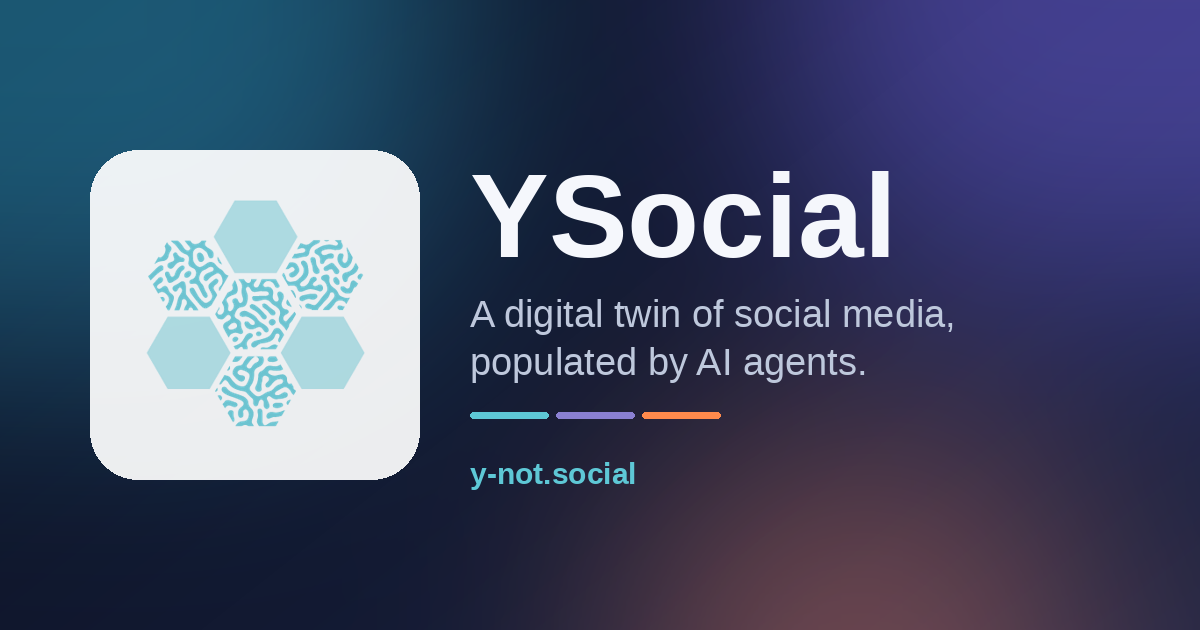
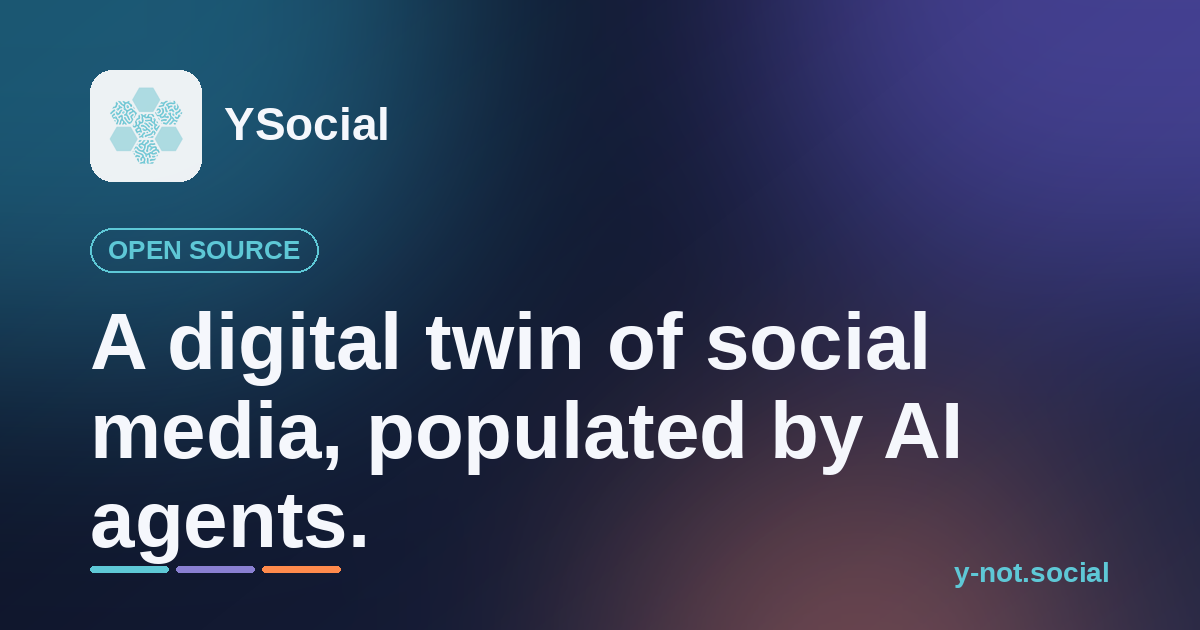
Social preview cards: blog default, one per post, dedicated page cards, generator script
Claude-Session: https://claude.ai/code/session_01C92rr75w16jG4rhcXbGmuP

Changed region(s): [[0.0617, 0.0905, 0.8017, 0.9349], [0.7708, 0.8746, 0.925, 0.9349]]

diff --git a/blog/index.html b/blog/index.html
@@ -4,7 +4,7 @@ title: "Blog"
 subtitle: "News from the agents"
 eyebrow: "News and releases"
 header_type: hero
-header_img: assets/images/blog.jpg
+header_img: assets/images/og-blog.png
 header_title: "Blog"
 ---
 

diff --git a/scripts/make_og_images.py b/scripts/make_og_images.py
@@ -1,0 +1,114 @@
+#!/usr/bin/env python3
+"""Generate the social-preview (og:image) cards, 1200x630.
+
+Run from the repository root:  python3 scripts/make_og_images.py
+Needs Pillow. Rewrites assets/images/og-*.png and assets/images/og/*.png.
+Posts get one card each (title + date); a few pages get a dedicated card.
+Set `header_img: assets/images/og/<name>.png` in a page front matter to use it.
+"""
+import glob, os, re
+from PIL import Image, ImageChops, ImageDraw, ImageFilter, ImageFont
+
+W, H = 1200, 630
+B = "/usr/share/fonts/truetype/liberation/LiberationSans-Bold.ttf"
+R = "/usr/share/fonts/truetype/liberation/LiberationSans-Regular.ttf"
+if not os.path.exists(B):  # macOS fallback
+    B = "/System/Library/Fonts/Supplemental/Arial Bold.ttf"
+    R = "/System/Library/Fonts/Supplemental/Arial.ttf"
+TEAL, VIOLET, ORANGE = (94, 200, 214), (138, 128, 210), (255, 138, 76)
+
+
+def background():
+    bg = Image.new("RGB", (W, H))
+    px = bg.load()
+    for y in range(H):
+        for x in range(W):
+            t = x / W * 0.6 + y / H * 0.4
+            px[x, y] = (int(11 + 14 * t), int(16 + 18 * t), int(32 + 34 * t))
+    g = Image.new("RGB", (W, H), (0, 0, 0))
+    d = ImageDraw.Draw(g)
+    d.ellipse((-150, -200, 450, 360), fill=(30, 130, 150))
+    d.ellipse((760, -220, 1360, 300), fill=(90, 70, 170))
+    d.ellipse((620, 430, 1100, 820), fill=(170, 80, 40))
+    g = g.filter(ImageFilter.GaussianBlur(120))
+    return ImageChops.add(bg, g.point(lambda v: int(v * 0.55)))
+
+
+def clean(s):
+    s = re.sub(r"[^\x20-\x7EÀ-ſ–—’“”]", "", s or "")
+    return re.sub(r"\s+", " ", s).strip()
+
+
+def wrap(d, text, font, width):
+    lines, cur = [], ""
+    for w in text.split():
+        t = (cur + " " + w).strip()
+        if d.textlength(t, font=font) <= width:
+            cur = t
+        else:
+            lines.append(cur)
+            cur = w
+    return lines + [cur] if cur else lines
+
+
+def card(out, label, title, sub="", logo=True):
+    img = background()
+    d = ImageDraw.Draw(img)
+    x0 = 90
+    if logo:
+        lg = Image.open("assets/images/Ysocial_logo_color.png").convert("RGBA").resize((84, 84))
+        c = Image.new("RGBA", (112, 112), (0, 0, 0, 0))
+        ImageDraw.Draw(c).rounded_rectangle((0, 0, 111, 111), radius=22, fill=(255, 255, 255, 235))
+        c.alpha_composite(lg, (14, 14))
+        img.paste(c, (x0, 70), c)
+        d.text((x0 + 134, 98), "YSocial", font=ImageFont.truetype(B, 46), fill=(245, 247, 252))
+    tag = label.upper()
+    tf = ImageFont.truetype(B, 26)
+    tw = d.textlength(tag, font=tf)
+    d.rounded_rectangle((x0, 228, x0 + tw + 36, 272), radius=22, outline=TEAL, width=2)
+    d.text((x0 + 18, 235), tag, font=tf, fill=TEAL)
+    size = 84
+    while True:
+        tfont = ImageFont.truetype(B, size)
+        lines = wrap(d, clean(title), tfont, W - 2 * x0)
+        if len(lines) <= 3 and size * 1.12 * len(lines) <= 270 or size <= 48:
+            break
+        size -= 4
+    y = 296
+    for ln in lines:
+        d.text((x0, y), ln, font=tfont, fill=(245, 247, 252))
+        y += int(size * 1.12)
+    if sub:
+        sf = ImageFont.truetype(R, 32)
+        for ln in wrap(d, clean(sub), sf, W - 2 * x0)[:2]:
+            d.text((x0, y + 8), ln, font=sf, fill=(190, 200, 220))
+            y += 42
+    for i, col in enumerate((TEAL, VIOLET, ORANGE)):
+        d.rounded_rectangle((x0 + i * 86, 566, x0 + i * 86 + 78, 572), radius=3, fill=col)
+    d.text((W - x0, 556), "y-not.social", font=ImageFont.truetype(B, 28), fill=TEAL, anchor="ra")
+    os.makedirs(os.path.dirname(out), exist_ok=True)
+    img.save(out, optimize=True)
+    print("wrote", out)
+
+
+def front(path):
+    t = open(path, encoding="utf-8").read().split("---", 2)[1]
+    return {m.group(1): m.group(2).strip().strip('"') for m in re.finditer(r"^(\w+):\s*(.*)$", t, re.M)}
+
+
+# site-wide default (logo + tagline)
+card("assets/images/og-default.png", "Open source", "A digital twin of social media, populated by AI agents.", logo=True)
+# blog default and index
+card("assets/images/og-blog.png", "Blog", "News from the agents", "Releases, features and research notes from the YSocial team.")
+# one card per post
+for p in sorted(glob.glob("_posts/*.md")):
+    fm = front(p)
+    slug = re.sub(r"^\d{4}-\d{2}-\d{2}-|\.md$", "", os.path.basename(p))
+    date = os.path.basename(p)[:10]
+    title = fm.get("header_title") or fm.get("title", slug)
+    sub = fm.get("subtitle", "")
+    card(f"assets/images/og/blog-{slug}.png", "Blog · " + date, title, sub)
+# dedicated page cards
+for page, label in [("download", "Download"), ("whats_new", "Release 4.0.0"), ("stress_reward", "Agents"), ("plugins", "Plugins")]:
+    fm = front(f"_pages/{page}.markdown")
+    card(f"assets/images/og/{page}.png", label, fm.get("title", page), fm.get("subtitle", ""))

diff --git a/_posts/2026-07-23-bigdata_and_society.md b/_posts/2026-07-23-bigdata_and_society.md
@@ -8,7 +8,7 @@ description: "Discover YSocial v3.0.0 with cross-platform support, one-click ins
 tags: [platform, web]
 categories: [news]
 header_type: hero
-header_img: assets/images/blog.jpg
+header_img: assets/images/og/blog-bigdata_and_society.png
 ---
 
 <style>

diff --git a/_posts/2026-10-23-ysocial-4.md b/_posts/2026-10-23-ysocial-4.md
@@ -8,7 +8,7 @@ description: "Discover YSocial v4.0.0: a one-click desktop installer for macOS, 
 tags: [platform, web]
 categories: [news]
 header_type: hero
-header_img: assets/images/blog.jpg
+header_img: assets/images/og/blog-ysocial-4.png
 published: true
 ---
 

diff --git a/_posts/2024-11-20-pages.md b/_posts/2024-11-20-pages.md
@@ -8,7 +8,7 @@ description: Pages, Multimodal Contents and Dynamic Interests
 tags: [features, update]
 categories: [news]
 header_type: hero
-header_img: assets/images/blog.jpg
+header_img: assets/images/og/blog-pages.png
 ---
 
 <div class="container py-3">

diff --git a/_posts/2025-11-01-ysights.md b/_posts/2025-11-01-ysights.md
@@ -8,7 +8,7 @@ description: YSocial continues to evolve! Discover the latest features, includin
 tags: [platform, web]
 categories: [news]
 header_type: hero
-header_img: assets/images/blog.jpg
+header_img: assets/images/og/blog-ysights.png
 ---
 
 <style>

diff --git a/_posts/2025-12-03-ynot.md b/_posts/2025-12-03-ynot.md
@@ -8,7 +8,7 @@ description: "Discover YSocial v3.0.0 with cross-platform support, one-click ins
 tags: [platform, web]
 categories: [news]
 header_type: hero
-header_img: assets/images/blog.jpg
+header_img: assets/images/og/blog-ynot.png
 ---
 
 <style>

diff --git a/_posts/2025-03-13-yweb.md b/_posts/2025-03-13-yweb.md
@@ -8,7 +8,7 @@ description: A new era for social simulations
 tags: [platform, web]
 categories: [news]
 header_type: hero
-header_img: assets/images/blog.jpg
+header_img: assets/images/og/blog-yweb.png
 ---
 
 <div class="container py-3">

diff --git a/_posts/2024-08-01-intro.md b/_posts/2024-08-01-intro.md
@@ -8,7 +8,7 @@ description: Hello World!
 tags: [welcome, introduction]
 categories: [news]
 header_type: hero
-header_img: assets/images/blog.jpg
+header_img: assets/images/og/blog-intro.png
 ---
 
 <div class="container py-3">
